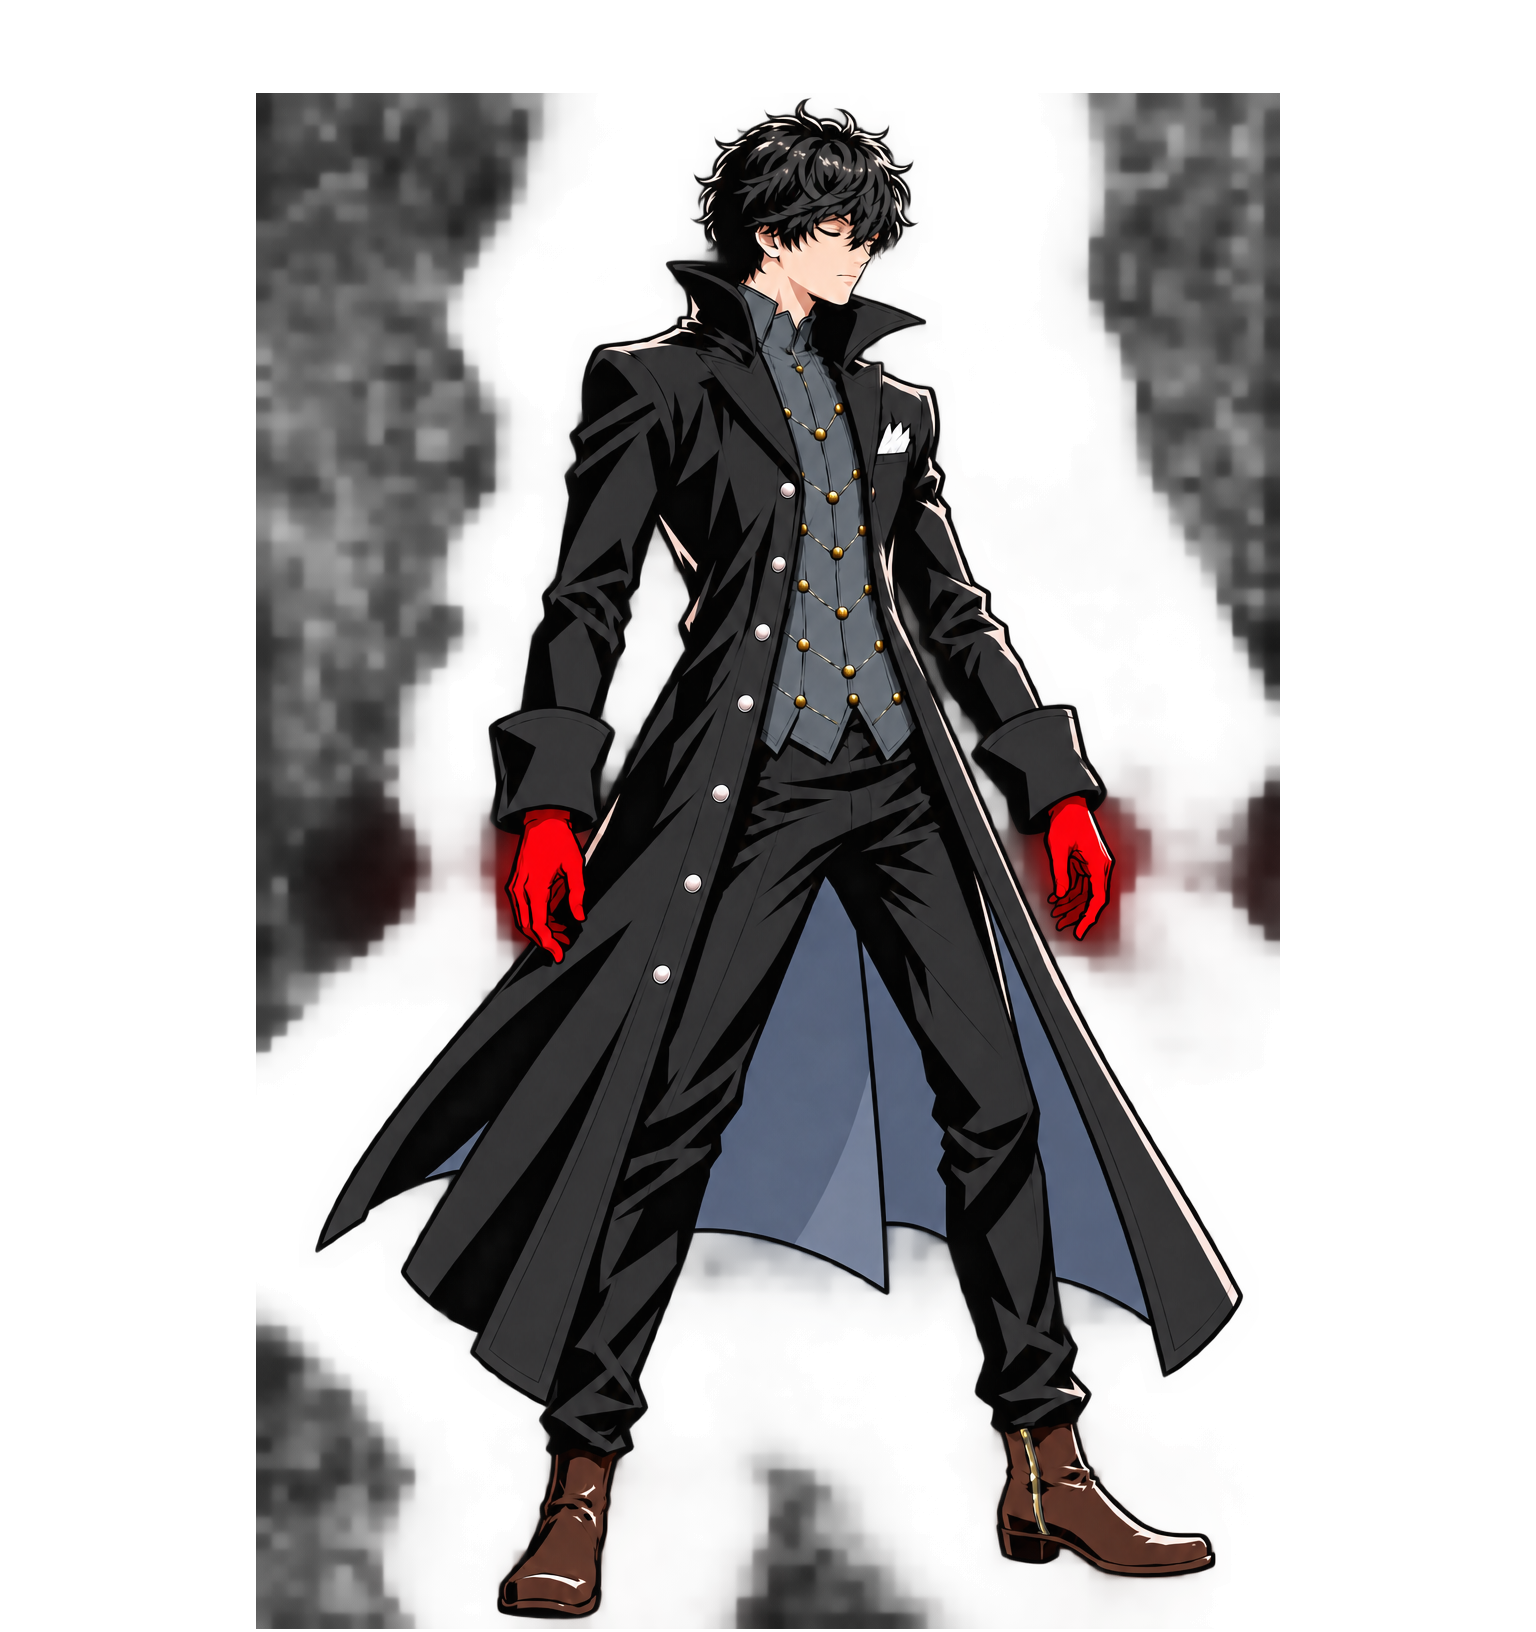
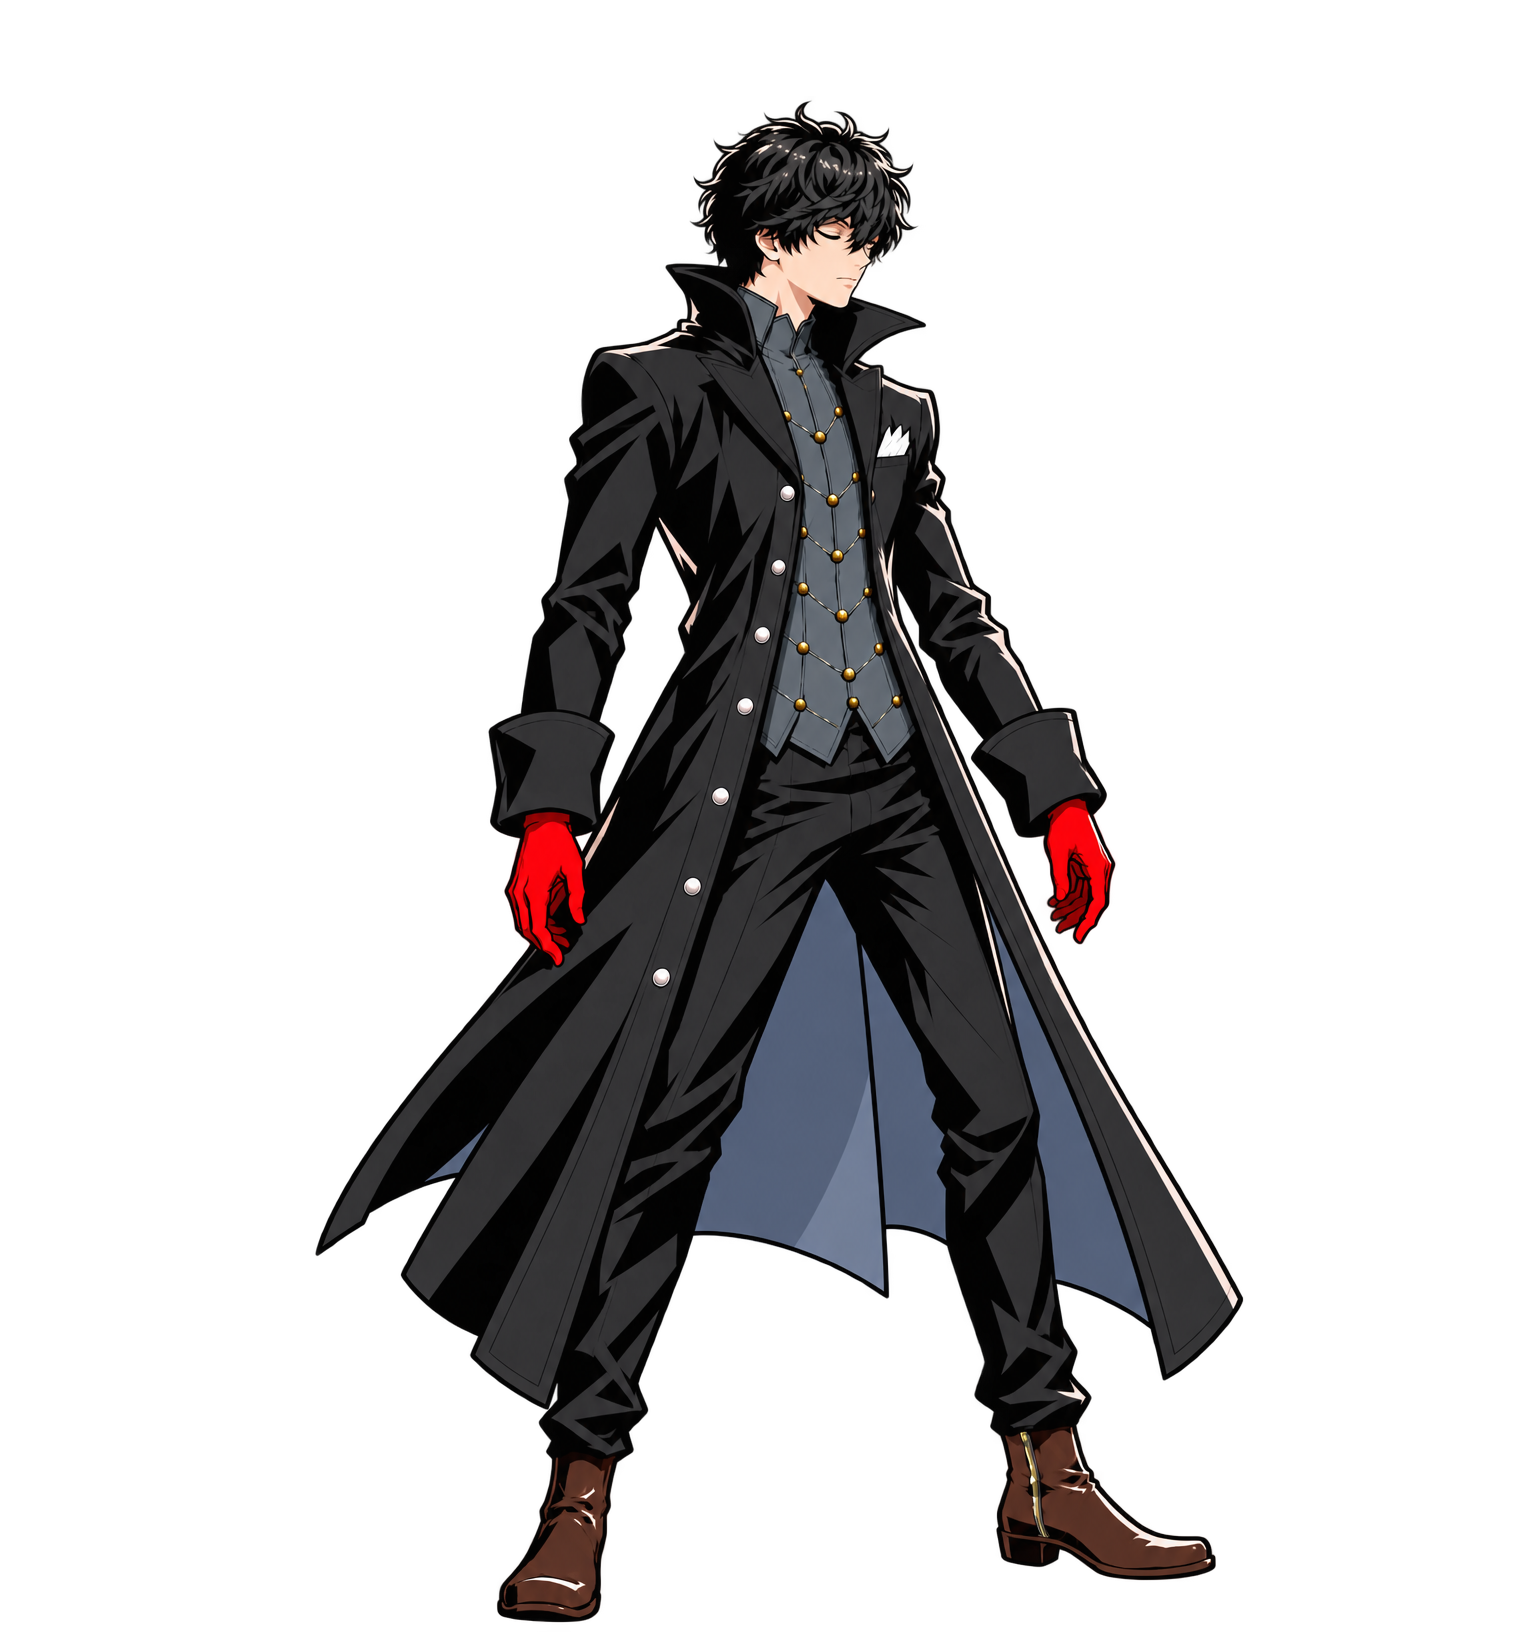
art: P5 blink frame = idle_a3 + only the generated eyes (no halo); eye patch + position for the rig
Claude-Session: https://claude.ai/code/session_01Nam5m2bn9ofCCWTGM6fwcN

diff --git a/tools/p5/blink_patch.py b/tools/p5/blink_patch.py
@@ -1,0 +1,52 @@
+"""Build the P5 Joker blink frame from idle_a3 + only the eyes of a generated closed-eye frame.
+
+The generated idle_blink_a.png (2026-10-27) closed the eyes but redrew the whole picture soft, with
+dark fringes and a glow round the red gloves. So the blink frame is idle_a3 with only the two eye
+areas copied in (feathered ellipses, skin tone matched to idle). Writes the full frame back to
+art/p5/poses/idle_blink_a.png (the raw generation is kept as idle_blink_a_raw.png) and the small
+patch art/p5/poses/idle_blink_patch.png + .json (its position on idle_a3) for the rig.
+    python tools/p5/blink_patch.py
+"""
+import json
+from pathlib import Path
+import numpy as np
+from PIL import Image, ImageFilter
+
+P = Path(__file__).resolve().parents[2] / 'art/p5/poses'
+# (cx, cy, rx, ry) on the 1024x1536 source canvas: near (visible) eye, far eye beside the hair
+EYES = [(577, 135, 34, 20), (614, 146, 13, 11)]
+FEATHER = 4
+
+
+def main():
+    raw = P / 'idle_blink_a_raw.png'
+    if not raw.exists():
+        (P / 'idle_blink_a.png').rename(raw)
+    idle = np.array(Image.open(P / 'idle_a3.png').convert('RGBA')).astype(float)
+    gen = np.array(Image.open(raw).convert('RGBA')).astype(float)
+    m = Image.new('L', (idle.shape[1], idle.shape[0]), 0)
+    from PIL import ImageDraw
+    d = ImageDraw.Draw(m)
+    for cx, cy, rx, ry in EYES:
+        d.ellipse([cx - rx, cy - ry, cx + rx, cy + ry], fill=255)
+    m = np.array(m.filter(ImageFilter.GaussianBlur(FEATHER))).astype(float) / 255
+    # match the generated skin tone to idle in a ring around the eyes
+    ring = (m > 0.02) & (m < 0.6)
+    skin = ring & (idle[..., 0] > 200) & (idle[..., 1] > 160)
+    gain = idle[skin][:, :3].mean(0) / np.maximum(gen[skin][:, :3].mean(0), 1)
+    gen[..., :3] = np.clip(gen[..., :3] * gain, 0, 255)
+    out = idle.copy()
+    out[..., :3] = idle[..., :3] * (1 - m[..., None]) + gen[..., :3] * m[..., None]
+    Image.fromarray(out.astype(np.uint8)).save(P / 'idle_blink_a.png')
+    ys, xs = np.nonzero(m > 0.01)
+    x0, x1, y0, y1 = xs.min(), xs.max() + 1, ys.min(), ys.max() + 1
+    patch = out[y0:y1, x0:x1].copy()
+    patch[..., 3] = np.minimum(patch[..., 3], m[y0:y1, x0:x1] * 255)
+    Image.fromarray(patch.astype(np.uint8)).save(P / 'idle_blink_patch.png')
+    (P / 'idle_blink_patch.json').write_text(json.dumps({'base': 'idle_a3', 'x': int(x0), 'y': int(y0),
+                                                         'w': int(x1 - x0), 'h': int(y1 - y0)}, indent=1))
+    print('patch', x0, y0, x1 - x0, y1 - y0, 'skin gain', gain.round(3))
+
+
+if __name__ == '__main__':
+    main()
